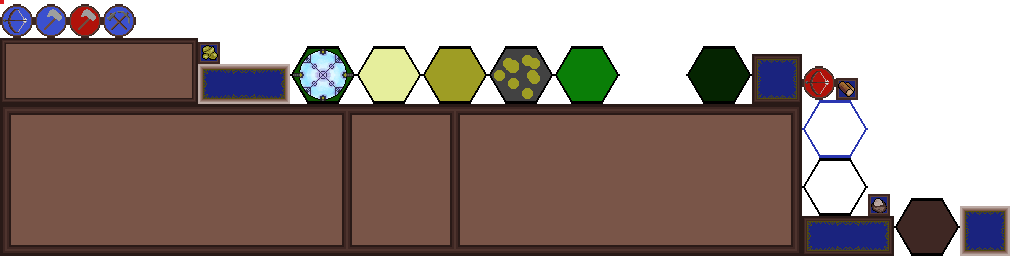
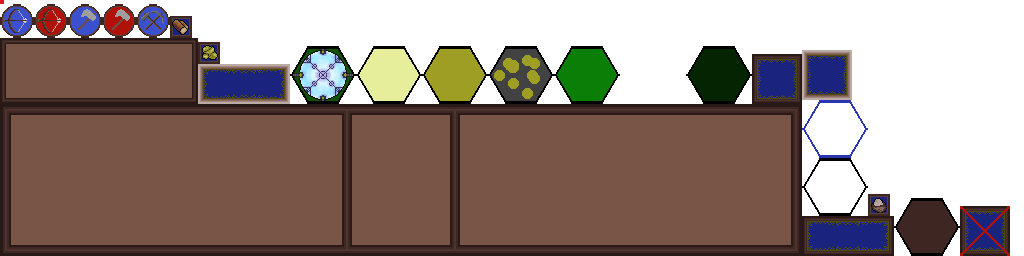
Texts

Changed region(s): [[0.0312, 0.0, 0.1875, 0.1562], [0.9375, 0.7812, 1.0, 1.0], [0.7812, 0.1875, 0.8438, 0.4062]]

diff --git a/LudumDare40/core/src/com/svarttand/ludumdare40/ui/PlayUI.java b/LudumDare40/core/src/com/svarttand/ludumdare40/ui/PlayUI.java
@@ -20,6 +20,7 @@ import com.badlogic.gdx.utils.viewport.StretchViewport;
 import com.badlogic.gdx.utils.viewport.Viewport;
 import com.svarttand.ludumdare40.Application;
 import com.svarttand.ludumdare40.map.Hexagon;
+import com.svarttand.ludumdare40.map.HexagonMap;
 import com.svarttand.ludumdare40.map.TileType;
 import com.svarttand.ludumdare40.misc.Command;
 import com.svarttand.ludumdare40.misc.ResourceHandler;
@@ -42,14 +43,14 @@ public class PlayUI {
 	private Button exitButton;
 	
 	private Button moveCommandButton;
-	private Button attackCommandButton;
 	private Button BuildCommandButton;
 	private Button makeWarriorButton;
 	private Button makeBuilderButton;
 	
 	private Label resourcesText;
-	private Label buildingInfoText;
+	private Label objectiveText;
 	private Label unitInfoText;
+	private Label hexInfoText;
 	
 	private Unit selectedUnit;
 	private Hexagon selectedHexagon;
@@ -70,11 +71,24 @@ public class PlayUI {
 	    style.up = skin.getDrawable("Button");
 	    style.down = skin.getDrawable("ButtonPressed");
 	    style.checked = skin.getDrawable("ButtonPressed");
+	    style.disabled = skin.getDrawable("ButtonDisabled");
 	    
 	    resourcesText = new Label("Food: " + game.getResources().getFood() + "\nGold: " + game.getResources().getGold() +"\nWood: " + game.getResources().getWood(), new LabelStyle(font, Color.WHITE));
 	    resourcesText.setPosition(Application.V_WIDTH *0.48f, Application.V_HEIGHT*0.03f);
 	    
+	    objectiveText = new Label("OBJECIVE:\nControl all the gold.\n" + game.getMap().getOwnedGold() + "/" + game.getMap().getTotalGold(), new LabelStyle(font, Color.WHITE));
+	    objectiveText.setPosition(Application.V_WIDTH *0.01f, Application.V_HEIGHT*0.925f);
+	    
+	    unitInfoText = new Label("Unit:", new LabelStyle(font, Color.WHITE));
+	    unitInfoText.setPosition(Application.V_WIDTH *0.6f, Application.V_HEIGHT*0.05f);
+	    
+	    hexInfoText = new Label("Tile:", new LabelStyle(font, Color.WHITE));
+	    hexInfoText.setPosition(Application.V_WIDTH *0.02f, Application.V_HEIGHT*0.05f);
+	    
+	    stage.addActor(hexInfoText);
 	    stage.addActor(resourcesText);
+	    stage.addActor(objectiveText);
+	    stage.addActor(unitInfoText);
 	    
 	    moveCommandButton = new TextButton("Move", style);
 	    moveCommandButton.setPosition(Application.V_WIDTH*0.75f, Application.V_HEIGHT*0.11f);
@@ -94,16 +108,6 @@ public class PlayUI {
 	    buttonList.add(moveCommandButton);
 	    stage.addActor(moveCommandButton);
 	    
-	    attackCommandButton = new TextButton("Attack", style);
-	    attackCommandButton.setPosition(Application.V_WIDTH*0.825f, Application.V_HEIGHT*0.11f);
-	    attackCommandButton.addListener( new ClickListener() {
-	         @Override
-	         public void clicked(InputEvent event, float x, float y) {
-	        	 System.out.println("Attack pressed");
-	            }
-	        });
-	    buttonList.add(attackCommandButton);
-	    stage.addActor(attackCommandButton);
 	    
 	    makeBuilderButton = new TextButton("Builder", style);
 	    makeBuilderButton.setPosition(Application.V_WIDTH*0.125f, Application.V_HEIGHT*0.11f);
@@ -120,7 +124,7 @@ public class PlayUI {
 	 					updateButtons();
 	 					
 	 					game.getResources().removeCost(UnitType.WORKER);
-	 					update(game.getResources());
+	 					update(game.getResources(), game.getMap());
 					}else{
 						System.out.println("Not enough money!");
 					}
@@ -147,7 +151,7 @@ public class PlayUI {
 		 					updateButtons();
 		 					
 		 					game.getResources().removeCost(UnitType.WARRIOR);
-		 					update(game.getResources());
+		 					update(game.getResources(), game.getMap());
 						}else{
 							System.out.println("Not enough money!");
 						}
@@ -159,7 +163,7 @@ public class PlayUI {
 	    stage.addActor(makeWarriorButton);
 	    
 	    BuildCommandButton = new TextButton("Build", style);
-	    BuildCommandButton.setPosition(Application.V_WIDTH*0.9f, Application.V_HEIGHT*0.11f);
+	    BuildCommandButton.setPosition(Application.V_WIDTH*0.825f, Application.V_HEIGHT*0.11f);
 	    BuildCommandButton.addListener( new ClickListener() {
 	         @Override
 	         public void clicked(InputEvent event, float x, float y) {
@@ -196,17 +200,23 @@ public class PlayUI {
 	            }
 	        });
 	    stage.addActor(endTurnButton);
-	    moveCommandButton.setVisible(false);
-		attackCommandButton.setVisible(false);
-		makeBuilderButton.setVisible(false);
-		makeWarriorButton.setVisible(false);
-		BuildCommandButton.setVisible(false);
+	    moveCommandButton.setDisabled(true);
+		makeBuilderButton.setDisabled(true);
+		makeWarriorButton.setDisabled(true);
+		BuildCommandButton.setDisabled(true);
 	    
 	}
 	
-	public void update(ResourceHandler resources){
+	public void update(ResourceHandler resources, HexagonMap map){
 		System.out.println("resource Update");
 		resourcesText.setText("Food: " + resources.getFood() + "\nGold: " + resources.getGold() +"\nWood: " + resources.getWood());
+		objectiveText.setText("OBJECIVE:\nControl all the gold.\n" + map.getOwnedGold() + "/" + map.getTotalGold());
+		updateUnitText();
+	}
+	
+	public void updateUnitText(){
+		unitInfoText.setText("Unit:\n" + selectedUnit);
+		hexInfoText.setText("Tile:\n" + selectedHexagon);
 	}
 	
 	
@@ -220,6 +230,7 @@ public class PlayUI {
 		if (selectedHexagon != null) {
 			batch.draw(atlas.findRegion(selectedHexagon.getPath()),Application.V_WIDTH*0.02f, Application.V_HEIGHT*0.1f);
 		}
+		batch.draw(atlas.findRegion("TopCorner"),0, Application.V_HEIGHT - atlas.findRegion("TopCorner").getRegionHeight());
 		batch.draw(atlas.findRegion("FoodIcon"),Application.V_WIDTH*0.45f, Application.V_HEIGHT*0.08f);
 		batch.draw(atlas.findRegion("GoldIcon"),Application.V_WIDTH*0.45f, Application.V_HEIGHT*0.05f);
 		batch.draw(atlas.findRegion("WoodIcon"),Application.V_WIDTH*0.45f, Application.V_HEIGHT*0.02f);
@@ -242,23 +253,22 @@ public class PlayUI {
 	
 	private void updateButtons(){
 		if (selectedHexagon.getType() == TileType.CITY) {
-			makeBuilderButton.setVisible(true);
-			makeWarriorButton.setVisible(true);
+			makeBuilderButton.setDisabled(false);
+			makeWarriorButton.setDisabled(false);
 		}else{
-			makeBuilderButton.setVisible(false);
-			makeWarriorButton.setVisible(false);
+			makeBuilderButton.setDisabled(true);
+			makeWarriorButton.setDisabled(true);
 		}
 		if (selectedUnit == null) {
-			moveCommandButton.setVisible(false);
-			attackCommandButton.setVisible(false);
-			BuildCommandButton.setVisible(false);
+			moveCommandButton.setDisabled(true);
+			BuildCommandButton.setDisabled(true);
 		}else{
-			moveCommandButton.setVisible(true);
-			attackCommandButton.setVisible(true);
+			moveCommandButton.setDisabled(false);
 			if (selectedUnit.getType() == UnitType.WORKER) {
-				BuildCommandButton.setVisible(true);
+				BuildCommandButton.setDisabled(false);
 			}
 		}
+		updateUnitText();
 	}
 
 	public void resetButtons() {

diff --git a/LudumDare40/core/src/com/svarttand/ludumdare40/map/HexagonMap.java b/LudumDare40/core/src/com/svarttand/ludumdare40/map/HexagonMap.java
@@ -23,6 +23,9 @@ public class HexagonMap {
 	
 	private ArrayList<Hexagon> cityList;
 	private ArrayList<Hexagon> campList;
+	private ArrayList<Hexagon> goldList;
+	private int ownedGold;
+	
 	
 	private Random random;
 	
@@ -31,16 +34,21 @@ public class HexagonMap {
 		sizeX = x;
 		sizeY = y;
 		map = new Hexagon[x][y];
+		goldList = new ArrayList<Hexagon>();
 		random = new Random();
 		createMap(random);
 		cityList = new ArrayList<Hexagon>();
 		campList = new ArrayList<Hexagon>();
+		
+		ownedGold = 0;
+		
 		int randx = random.nextInt((sizeX - 5)) + 3;
 		int randy = random.nextInt((sizeY - 5)) + 3;
 		
 		map[randx][randy].setType(TileType.CITY);
 		startPos = new Vector2(map[randx][randy].getPosX(), map[randx][randy].getPosY());
 		addCity(map[randx][randy]);
+		updateBorders();
 	}
 	
 	private void createMap(Random random){
@@ -104,6 +112,9 @@ public class HexagonMap {
 					} catch (Exception e) {
 						// TODO: handle exception
 					}
+				}
+				if (type == TileType.GOLD) {
+					goldList.add(map[i][j]);
 				}
 			}
 		}
@@ -176,10 +187,14 @@ public class HexagonMap {
 	}
 	
 	public void updateBorders(){
+		ownedGold = 0;
 		for (int i = 0; i < cityList.size(); i++) {
 			cityList.get(i).setSelected(BorderType.BLUE);
 			for (int j = 0; j < cityList.get(i).getNeighbors().size(); j++) {
 				cityList.get(i).getNeighbors().get(j).setSelected(BorderType.BLUE);
+				if (cityList.get(i).getNeighbors().get(j).getType() == TileType.GOLD) {
+					ownedGold++;
+				}
 			}
 		}
 	}
@@ -212,5 +227,15 @@ public class HexagonMap {
 		campList.remove(currentPos);
 		
 	}
+	
+	public int getTotalGold(){
+		return goldList.size();
+	}
+	
+	public int getOwnedGold(){
+		return ownedGold;
+	}
+	
+	
 
 }

diff --git a/LudumDare40/core/src/com/svarttand/ludumdare40/units/Unit.java b/LudumDare40/core/src/com/svarttand/ludumdare40/units/Unit.java
@@ -6,6 +6,7 @@ import java.util.Random;
 
 import com.badlogic.gdx.math.Vector2;
 import com.svarttand.ludumdare40.map.Hexagon;
+import com.svarttand.ludumdare40.map.TileType;
 
 public class Unit {
 	
@@ -70,6 +71,9 @@ public class Unit {
 		currentPos.setHasUnit(true);
 		updatePos();
 		hpBar.update(health, pos.x, pos.y);
+		if (type.isEnemy() && currentPos.getType() == TileType.CITY) {
+			currentPos.setType(TileType.GRASS);
+		}
 		
 	}
 	
@@ -251,6 +255,10 @@ public class Unit {
 			return true;
 		}
 		return false;
+	}
+	
+	public String toString(){
+		return type.getPath()+ ", Attack: " + type.getDmg() + ", Health: " + health +"/" + type.getHp() + "\nMovments:" + movmentsLeft + "/" + type.getMovments();
 	}
 	
 

diff --git a/LudumDare40/core/src/com/svarttand/ludumdare40/misc/ResourceHandler.java b/LudumDare40/core/src/com/svarttand/ludumdare40/misc/ResourceHandler.java
@@ -1,5 +1,7 @@
 package com.svarttand.ludumdare40.misc;
 
+import java.util.ArrayList;
+
 import com.svarttand.ludumdare40.map.Hexagon;
 import com.svarttand.ludumdare40.units.UnitType;
 
@@ -8,6 +10,7 @@ public class ResourceHandler {
 	private int wood;
 	private int gold;
 	private int food;
+	
 	
 	public ResourceHandler(int wood, int gold, int food){
 		this.wood = wood;

diff --git a/LudumDare40/core/src/com/svarttand/ludumdare40/states/PlayState.java b/LudumDare40/core/src/com/svarttand/ludumdare40/states/PlayState.java
@@ -155,7 +155,7 @@ public class PlayState extends State{
 	public void nextTurn() {
 		unitHandler.nextTurn();
 		map.update(resourceHandler);
-		ui.update(resourceHandler);
+		ui.update(resourceHandler, map);
 		enemyUnitHandler.update(map.getCityList(), unitHandler.getUnits(), map.getCampList(), unitHandler);
 		System.out.println("finished updating");
 	}

diff --git a/LudumDare40/core/src/com/svarttand/ludumdare40/map/Hexagon.java b/LudumDare40/core/src/com/svarttand/ludumdare40/map/Hexagon.java
@@ -83,7 +83,7 @@ public class Hexagon {
 	}
 	
 	public String toString(){
-		return type.getPath() + ", " + posX + ", " + posY;
+		return type.getPath() + "\n" + "Provides: Food: " + type.getFood() + ", Wood: " + type.getWood() + ", Gold: " + type.getGold() ;
 	}
 	
 	public boolean hasUnit(){
